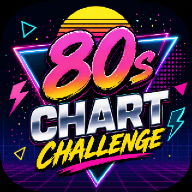
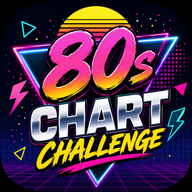
Add files via upload

diff --git a/index.html b/index.html
@@ -7,8 +7,11 @@
   <link rel="manifest" href="manifest.webmanifest" />
   <link rel="stylesheet" href="styles.css" />
   <link rel="apple-touch-icon" sizes="180x180" href="/80s-Chart-Challenge/apple-touch-icon.png" />
+  <link rel="apple-touch-icon-precomposed" sizes="180x180" href="/80s-Chart-Challenge/apple-touch-icon-precomposed.png" />
   <link rel="icon" type="image/png" sizes="192x192" href="/80s-Chart-Challenge/icon-192.png" />
   <link rel="icon" type="image/png" sizes="512x512" href="/80s-Chart-Challenge/icon-512.png" />
+
+
 
 
   <meta name="theme-color" content="#100b2d" />